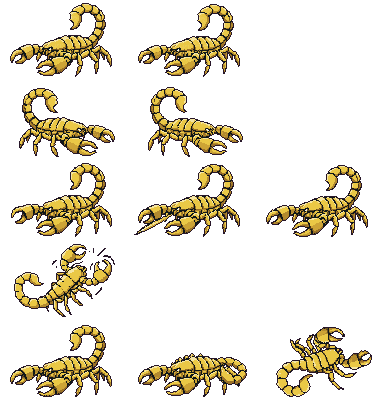
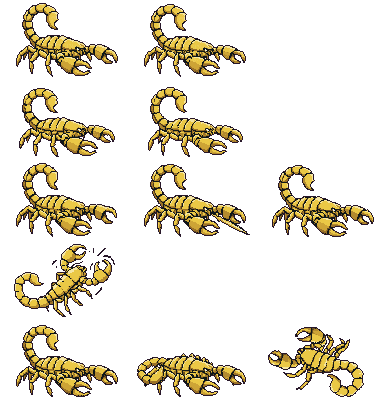
Armoured scorpion: mirror the left-facing idle/attack/death cells, re-measure shapes, capture in Fight_Caravan
Claude-Session: https://claude.ai/code/session_01RDSiJRJw6M9AswaQJUvRvf

diff --git a/SampleProject/Assets/Characters/Enemies/scorpion_armoured/README.md b/SampleProject/Assets/Characters/Enemies/scorpion_armoured/README.md
@@ -5,5 +5,5 @@ big_armoured_scorpion` with the local ComfyUI, **Qwen-Image-Edit-2511** (Alibaba
 Q5_K_M by unsloth) + Lightning LoRA, the hero's artist frame (`Sprites/Player/Walk/1.png`) as the style reference.
 Sapega's pick (D692): candidate 3 (seed 134, three-quarter view).
 
-128×80 cells, 3 columns, facing right, rows: `idle` 2, `walk` 2, `attack` 3 (tail back, sting, pincers), `hurt` 1,
+128×80 cells, 3 columns, facing right (the idle, attack and death cells came out facing left — the base candidate faces left — and were mirrored in place, D-ID in `design/cloud_reports/big-scorpion.md`), rows: `idle` 2, `walk` 2, `attack` 3 (tail back, sting, pincers), `hurt` 1,
 `death` 3. Scene: `Scenes/Characters/Enemies/enemy_armoured_scorpion.tscn` (×1.25).
